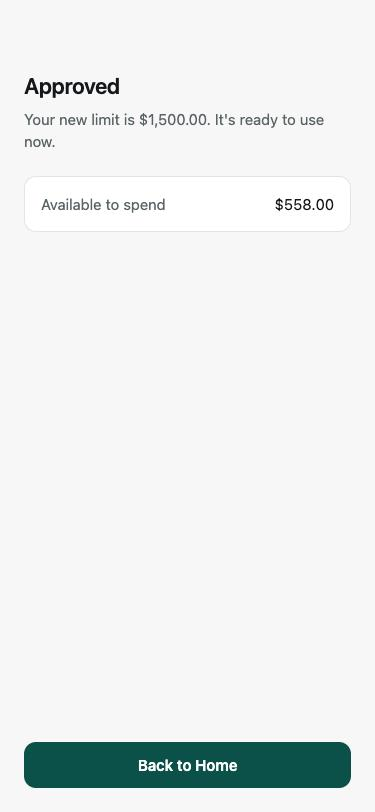
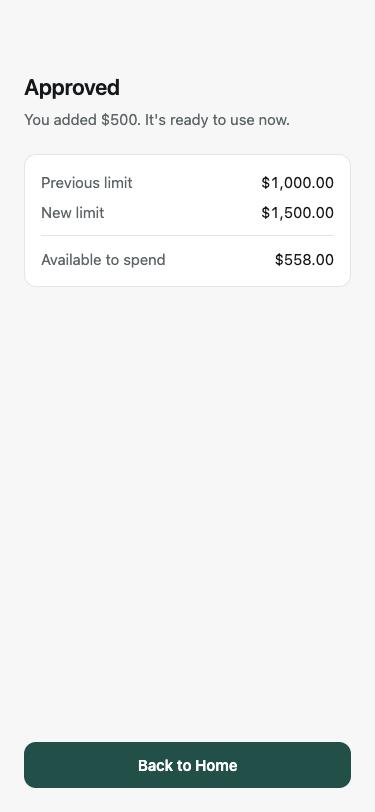
Polish UI: demo controls apart, clearer request and approval, a11y
- Demo controls sit under a divider labelled as not part of the app
- Request: range labels under the track; notes next to Submit; slider
  exposes its value ("$500 of up to $800"); +/- reachable by keyboard
- Approved shows previous limit, new limit and available to spend
- Spinner in the primary button while submitting or checking status
- Titles are headers; back and picker targets at least 44 pt; small
  labels use ink2 (ink3 measured 2.9-3.1:1, under 4.5:1)
- Screens 1-7 retaken

diff --git a/react_native_app/App.tsx b/react_native_app/App.tsx
@@ -349,7 +349,7 @@ function HomePage({
   return (
     <ScrollView contentContainerStyle={styles.scroll}>
       <View style={styles.page}>
-        <Text style={type.title}>Your credit line</Text>
+        <Text accessibilityRole="header" style={type.title}>Your credit line</Text>
         <View style={styles.topGap} />
 
         {loading ? (
@@ -365,7 +365,7 @@ function HomePage({
         ) : (
           <View style={styles.flex}>
             <View style={styles.card}>
-              <Text style={type.label}>AVAILABLE TO SPEND</Text>
+              <Text style={styles.label}>AVAILABLE TO SPEND</Text>
               <View style={styles.tinyGap} />
               <Text style={[type.display, styles.numeric]}>{money(availableCents(line))}</Text>
               <View style={styles.divider} />
@@ -404,6 +404,8 @@ function HomePage({
         )}
 
         <View style={styles.largeGap} />
+        <View style={styles.demoDivider} />
+        <Text style={type.small}>Demo controls · not part of the member's app</Text>
         <DemoPicker
           label="PERSONA"
           value={persona}
@@ -441,7 +443,7 @@ function HomePage({
 function LimitStatusCard({ line }: { line: CreditLine }) {
   return (
     <View style={styles.card}>
-      <Text style={type.label}>LIMIT INCREASE</Text>
+      <Text style={styles.label}>LIMIT INCREASE</Text>
       <View style={styles.smallGap} />
       <Text style={type.heading}>An increase isn't available on your account</Text>
       <View style={styles.tinyGap} />
@@ -460,7 +462,7 @@ function PastRequestCard({ line, request }: { line: CreditLine; request: Increas
   if (request.status === 'APPROVED') {
     return (
       <View style={styles.card}>
-        <Text style={type.label}>LIMIT INCREASE</Text>
+        <Text style={styles.label}>LIMIT INCREASE</Text>
         <View style={styles.smallGap} />
         <Text style={type.body}>
           {'You added ' + moneyWhole(request.approvedCents) + ' to your limit' +
@@ -471,7 +473,7 @@ function PastRequestCard({ line, request }: { line: CreditLine; request: Increas
   }
   return (
     <View style={styles.card}>
-      <Text style={type.label}>LIMIT INCREASE REQUEST</Text>
+      <Text style={styles.label}>LIMIT INCREASE REQUEST</Text>
       <View style={styles.smallGap} />
       <Text style={type.body}>
         {'Your request' + (when ? ' on ' + when : '') + " wasn't approved. Your limit stays at " +
@@ -519,7 +521,7 @@ function RequestPage({
     <ScrollView contentContainerStyle={styles.scroll}>
       <View style={styles.page}>
         <BackButton onPress={onBack} />
-        <Text style={type.title}>Request an increase</Text>
+        <Text accessibilityRole="header" style={type.title}>Request an increase</Text>
         <View style={styles.smallGap} />
         <Text style={type.bodyMuted}>
           {'Choose how much to add to your ' + moneyWhole(line.limitCents) + ' limit.'}
@@ -527,7 +529,7 @@ function RequestPage({
         <View style={styles.topGap} />
 
         <View style={styles.card}>
-          <Text style={[type.label, styles.centerText]}>INCREASE BY</Text>
+          <Text style={[styles.label, styles.centerText]}>INCREASE BY</Text>
           <View style={styles.tinyGap} />
           <Text
             accessibilityLiveRegion="polite"
@@ -545,29 +547,35 @@ function RequestPage({
                   disabled={amount <= MIN_ASK_CENTS}
                   onPress={() => nudge(-STEP_CENTS)}
                 />
-                <Slider
-                  accessibilityLabel="Amount to add"
-                  maximumTrackTintColor={color.rule}
-                  maximumValue={max / 100}
-                  minimumTrackTintColor={color.accent}
-                  minimumValue={MIN_ASK_CENTS / 100}
-                  onValueChange={(dollars) =>
-                    setAmount(Math.round((dollars * 100) / STEP_CENTS) * STEP_CENTS)}
-                  step={STEP_CENTS / 100}
-                  style={styles.slider}
-                  thumbTintColor={color.accent}
-                  value={amount / 100}
-                />
+                <View style={styles.flex}>
+                  <Slider
+                    accessibilityLabel="Amount to add"
+                    aria-valuemin={MIN_ASK_CENTS / 100}
+                    aria-valuemax={max / 100}
+                    aria-valuenow={amount / 100}
+                    aria-valuetext={moneyWhole(amount) + ' of up to ' + moneyWhole(max)}
+                    maximumTrackTintColor={color.rule}
+                    maximumValue={max / 100}
+                    minimumTrackTintColor={color.accent}
+                    minimumValue={MIN_ASK_CENTS / 100}
+                    onValueChange={(dollars) =>
+                      setAmount(Math.round((dollars * 100) / STEP_CENTS) * STEP_CENTS)}
+                    step={STEP_CENTS / 100}
+                    style={styles.slider}
+                    thumbTintColor={color.accent}
+                    value={amount / 100}
+                  />
+                  <View style={styles.rangeRow}>
+                    <Text style={type.small}>{moneyWhole(MIN_ASK_CENTS)}</Text>
+                    <Text style={type.small}>{moneyWhole(max)}</Text>
+                  </View>
+                </View>
                 <StepButton
                   label="+"
                   accessibilityLabel="Increase by $50"
                   disabled={amount >= max}
                   onPress={() => nudge(STEP_CENTS)}
                 />
-              </View>
-              <View style={styles.rangeRow}>
-                <Text style={type.small}>{moneyWhole(MIN_ASK_CENTS)}</Text>
-                <Text style={type.small}>{moneyWhole(max)}</Text>
               </View>
             </>
           ) : null}
@@ -576,13 +584,13 @@ function RequestPage({
           <AccountRow label="New limit if approved" value={money(newLimit)} />
         </View>
 
-        <View style={styles.mediumGap} />
-        <Note text="It won't affect your credit score. We use a soft inquiry." />
-        <Note text="You can only ask once, so pick the amount you'll want." />
-
         <View style={styles.flex} />
         <View style={styles.largeGap} />
+        <Note text="It won't affect your credit score. We use a soft inquiry." />
+        <Note text="You can only ask once, so pick the amount you'll want." />
+        <View style={styles.smallGap} />
         <PrimaryButton
+          busy={submitting}
           disabled={submitting}
           label={submitting ? 'Submitting…' : 'Submit request'}
           onPress={submit}
@@ -624,10 +632,17 @@ function ResultPage({
     return (
       <ResultFrame
         headline="Approved"
-        detail={'Your new limit is ' + money(request.newLimitCents) + ". It's ready to use now."}
+        detail={'You added ' + moneyWhole(request.approvedCents) + ". It's ready to use now."}
         primary={{ label: 'Back to Home', onPress: onDone }}
       >
         <View style={styles.card}>
+          <AccountRow
+            label="Previous limit"
+            value={money(request.newLimitCents - request.approvedCents)}
+          />
+          <View style={styles.smallGap} />
+          <AccountRow label="New limit" value={money(request.newLimitCents)} />
+          <View style={styles.divider} />
           <AccountRow label="Available to spend" value={money(availableCents(line, request.newLimitCents))} />
         </View>
       </ResultFrame>
@@ -676,7 +691,12 @@ function UncertainResult({
       detail={unreachable
         ? "We still can't reach your account. Your request may have gone through, so we won't send another until we can check."
         : "Your request may have gone through. We'll check your account before you can ask again, so it's never sent twice."}
-      primary={{ label: checking ? 'Checking…' : 'Check status', onPress: check, disabled: checking }}
+      primary={{
+        label: checking ? 'Checking…' : 'Check status',
+        onPress: check,
+        disabled: checking,
+        busy: checking,
+      }}
       secondary={{ label: 'Back to Home', onPress: onDone }}
     />
   );
@@ -691,7 +711,7 @@ function ResultFrame({
 }: {
   headline: string;
   detail: string;
-  primary: { label: string; onPress: () => void; disabled?: boolean };
+  primary: { label: string; onPress: () => void; disabled?: boolean; busy?: boolean };
   secondary?: { label: string; onPress: () => void };
   children?: React.ReactNode;
 }) {
@@ -707,6 +727,7 @@ function ResultFrame({
         <View style={styles.flex} />
         <View style={styles.largeGap} />
         <PrimaryButton
+          busy={primary.busy}
           disabled={primary.disabled}
           label={primary.label}
           onPress={primary.onPress}
@@ -731,7 +752,7 @@ function DeclineReasons({
 }) {
   return (
     <View>
-      <Text style={type.label}>WHY</Text>
+      <Text style={styles.label}>WHY</Text>
       <View style={styles.tinyGap} />
       {codes.length === 0 ? (
         <Text style={type.body}>We couldn't load the reason. Contact support and we'll explain.</Text>
@@ -784,7 +805,7 @@ function DemoPicker<T extends string>({
   const [open, setOpen] = useState(false);
   return (
     <View style={styles.personaRow}>
-      <Text style={type.label}>{label}</Text>
+      <Text style={styles.label}>{label}</Text>
       <Pressable
         accessibilityRole="button"
         accessibilityLabel={'Current ' + label.toLowerCase() + ': ' + describe(value)}
@@ -871,23 +892,29 @@ function PrimaryButton({
   label,
   onPress,
   disabled = false,
+  busy = false,
 }: {
   label: string;
   onPress: () => void;
   disabled?: boolean;
+  busy?: boolean;
 }) {
   return (
     <Pressable
       accessibilityRole="button"
+      aria-busy={busy}
       disabled={disabled}
       onPress={onPress}
       style={({ pressed }) => [
         styles.primaryButton,
-        disabled && styles.primaryButtonDisabled,
+        disabled && !busy && styles.primaryButtonDisabled,
         pressed && !disabled && styles.pressed,
       ]}
     >
-      <Text style={styles.primaryButtonText}>{label}</Text>
+      <View style={styles.buttonContent}>
+        {busy ? <ActivityIndicator color={color.accentInk} size="small" /> : null}
+        <Text style={styles.primaryButtonText}>{label}</Text>
+      </View>
     </Pressable>
   );
 }
@@ -926,6 +953,14 @@ const styles = StyleSheet.create({
   },
   centerText: { textAlign: 'center' },
   numeric: { fontVariant: ['tabular-nums'] },
+  // Token label style in ink2: ink3 measures 2.9-3.1:1 on paper and surface,
+  // under the 4.5:1 small text needs.
+  label: { ...type.label, color: color.ink2 },
+  demoDivider: {
+    backgroundColor: color.rule,
+    height: 1,
+    marginBottom: space.s3,
+  },
   topGap: { height: space.s5 },
   resultTopGap: { height: space.s7 },
   largeGap: { height: space.s5 },
@@ -964,6 +999,11 @@ const styles = StyleSheet.create({
     paddingVertical: space.s3,
   },
   primaryButtonDisabled: { opacity: 0.45 },
+  buttonContent: {
+    alignItems: 'center',
+    flexDirection: 'row',
+    gap: space.s2,
+  },
   primaryButtonText: {
     ...type.body,
     color: color.accentInk,
@@ -1001,15 +1041,14 @@ const styles = StyleSheet.create({
   rangeRow: {
     flexDirection: 'row',
     justifyContent: 'space-between',
-    paddingHorizontal: 52,
   },
   backButton: {
     alignItems: 'center',
-    height: 36,
+    height: 44,
     justifyContent: 'center',
-    marginBottom: space.s2,
-    marginLeft: -space.s2,
-    width: 36,
+    marginBottom: space.s1,
+    marginLeft: -space.s3,
+    width: 44,
   },
   backGlyph: {
     color: color.ink,
@@ -1025,7 +1064,7 @@ const styles = StyleSheet.create({
     flex: 1,
     flexDirection: 'row',
     justifyContent: 'flex-end',
-    minHeight: 40,
+    minHeight: 44,
   },
   chevron: {
     borderBottomColor: color.ink2,
